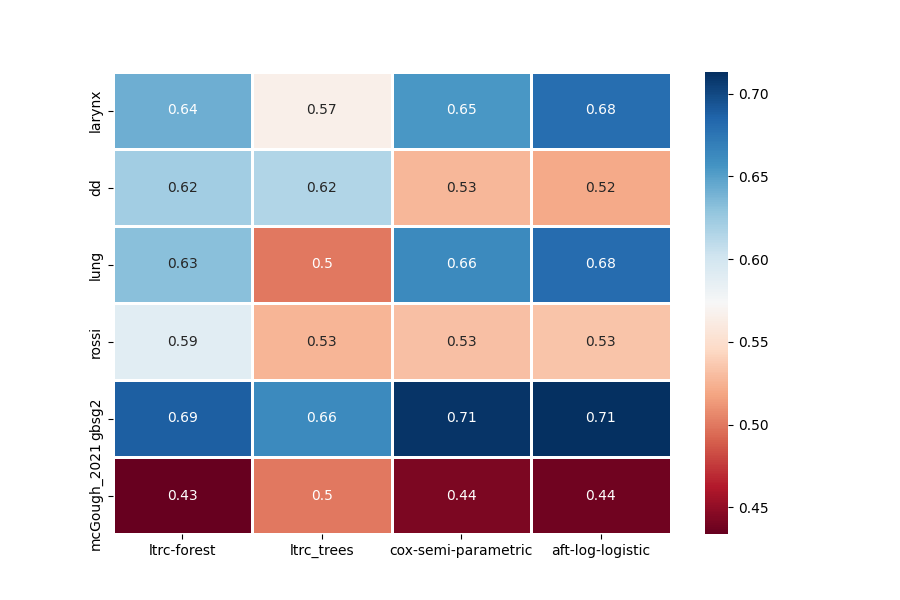
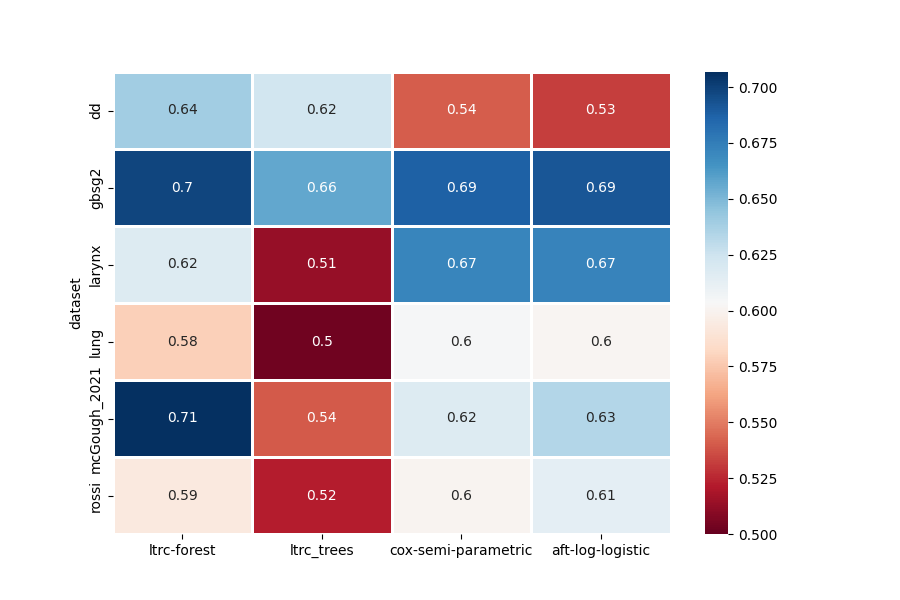
Maj benchmark

diff --git a/benchmark/synthetic.py b/benchmark/synthetic.py
@@ -2,14 +2,17 @@ import numpy as np
 import pandas as pd
 from scipy import stats
 
-n = 20000
-p = 3
+n = 400
+p = 30
 beta = np.random.uniform(size=p).reshape(-1, 1)
-beta = np.linspace(0, 1, num=p)*10
-alpha = 1
+beta = np.linspace(0, 0.1, num=p)
+# beta[: (3 * p) // 4] = 0
+alpha = 1.79
+weibull = stats.weibull_min(alpha)
 
 
 # https://onlinelibrary.wiley.com/doi/full/10.1002/sim.9136
+
 
 def generating_data(n, p):
     pi_k = np.random.uniform(0.2, 0.8, size=p)
@@ -19,49 +22,59 @@ def generating_data(n, p):
     d = s.diagonal()
     sigma = s / (np.sqrt(d).reshape(-1, 1) * np.sqrt(d).reshape(1, -1))
     mg = stats.multivariate_normal(mu_k, sigma, allow_singular=True)
-    x_tilde = mg.rvs(size=n) > 0
+    x_tilde = mg.rvs(size=n)  # > 0
     return x_tilde
 
 
+def get_shape(X, alpha, beta):
+    return np.exp(alpha) * np.exp(np.dot(X**2, beta))
+
+
 def generate_time_of_event(X, alpha, beta):
-    m = np.exp(alpha) * np.exp(np.dot(X, beta))
-    m = m.ravel()
-    return (-np.log(np.random.uniform(size=len(X)))) ** (1 / alpha) * m
+    m = get_shape(X, alpha, beta)
+    return weibull.rvs(size=len(X)) / m
 
 
 def generate_time_censoring(X, alpha, beta):
-    m = np.mean(np.exp(alpha + np.dot(X, beta)).ravel())
-    return (-np.log(np.random.uniform(size=len(X)))) ** (1 / alpha) * m
+    m = np.median(get_shape(X, alpha, beta))
+    return weibull.rvs(size=len(X)) / m
 
 
-def generate_left_truncation(x, mu, sigma):
-    return np.random.lognormal(mu, sigma, size=len(x))
+def generate_left_truncation(X, alpha, beta):
+    m = np.median(get_shape(X, alpha, beta)).ravel()
+    return weibull.rvs(size=len(X)) / m / 8
 
 
 def density_function(X, t, alpha, beta):
     t = t.reshape(1, -1)
-    m = np.exp(alpha + np.dot(X, beta)).ravel().reshape(-1, 1)
+    m = np.exp(alpha + np.dot(X**2, beta)).ravel().reshape(-1, 1)
     return alpha * m * (t ** (alpha - 1)) * np.exp(-m * (t ** alpha))
 
 
 X = generating_data(10 * n, p)
 T = generate_time_of_event(X, alpha, beta)
 R = generate_time_censoring(X, alpha, beta)
-L = generate_left_truncation(X, np.max((R.mean() - R.std(), T.min())), 1.5)
+L = generate_left_truncation(X, alpha, beta)
 # L = 0 * np.ones(L.shape)
 Y = T <= R
-Y &= T > L
+print("Proportion of censored event", 1 - np.mean(Y))
 
-print(np.mean(Y))
-print(np.mean(T))
-
+print("Average duration", np.mean(T))
 R = np.where(Y, T, R)
-loc = (R - L) > 1e-3
 
+loc = (R - L) > 1e-6
+print("Average truncated subjects", 1 - np.mean(loc))
 X = pd.DataFrame(X, columns=[f"feature_{i}" for i in range(X.shape[1])]).loc[loc].iloc[:n]
+
 Y = pd.Series(Y, name="target").loc[loc].iloc[:n]
 L = pd.Series(L, name="left_truncation").loc[loc].iloc[:n]
 R = pd.Series(R, name="right_censoring").loc[loc].iloc[:n]
+
+
+def plot_corr_x():
+    import seaborn as sns
+    sns.heatmap(pd.DataFrame(X).corr(method="spearman"), vmin=-1, cmap="RdBu_r")
+
 
 if __name__ == '__main__':
     import matplotlib.pyplot as plot
@@ -71,8 +84,19 @@ if __name__ == '__main__':
     from lifelines.fitters import coxph_fitter, log_logistic_aft_fitter
     from sklearn.model_selection import train_test_split
 
+    fig, ax = plot.subplots()
+    m = get_shape(X, alpha, beta)
+    s = np.linspace(1e-6, 1, num=1000)
+    for i in range(5):
+        w = weibull.pdf(s * m[i]) * m[i]
+        plot.plot(s, w, label=m[i])
+        y = np.argmax(abs(T[i] - s))
+        plot.scatter([T[i]], weibull.pdf(T[i] * m[i]) * m[i])
+    plot.legend()
+
     t = np.linspace(min(R), max(R), num=200)
     f_xt = density_function(X, t, alpha, beta)
+    plot.figure()
     plot.pcolormesh(f_xt)
     models = {
         "ltrc-forest": RandomForestLTRCFitter(
@@ -81,11 +105,11 @@ if __name__ == '__main__':
             max_samples=0.8),
         "ltrc_trees": LTRCTreesFitter(),
         "cox-semi-parametric": coxph_fitter.SemiParametricPHFitter(),
-        "aft-log-logistic": log_logistic_aft_fitter.LogLogisticAFTFitter(),
+        "aft-log-logistic": log_logistic_aft_fitter.LogLogisticAFTFitter(penalizer=0.01),
     }
     data = pd.concat((X, Y, L,
                       R), axis=1).astype(float)
-
+    plot.figure()
     sns.heatmap(
         pd.concat((data.iloc[:, -12:],
                    pd.Series(T, name='time')), axis=1).corr(method="spearman"), vmin=-1,
@@ -94,6 +118,8 @@ if __name__ == '__main__':
     y = data[["left_truncation", "right_censoring", "target"]]
     X = data.drop(columns=y.columns.tolist())
     X = X.select_dtypes(include=np.number)
+    data.loc[:, "target"] = data["target"].values.astype(bool)
+
     x_train, x_test, y_train, y_test = train_test_split(
         X, y, train_size=0.6)
     for i, key in enumerate(models.keys()):
@@ -105,9 +131,10 @@ if __name__ == '__main__':
         )
         test = 1 - models[key].predict_cumulative_hazard(
             x_test).astype(float).T
+        test.columns = np.array(test.columns.astype(float))
         test = test.dropna()
         c_index = concordance_index(
-            test, death=y_test.loc[test.index].iloc[:, 2],
+            test, death=y_test.loc[test.index].iloc[:, 2].astype(bool),
             censoring_time=y_test.loc[test.index].iloc[:, 1])
         print(models[key])
         print(c_index.mean())

diff --git a/benchmark/benchmark.py b/benchmark/benchmark.py
@@ -8,10 +8,10 @@ from lifelines.fitters import coxph_fitter, log_logistic_aft_fitter
 from lifelines.plotting import plot_lifetimes
 from sklearn.model_selection import train_test_split
 
+from benchmark import synthetic
 from survival_trees import LTRCTrees, RandomForestLTRCFitter, RandomForestLTRC, LTRCTreesFitter
 from survival_trees import plotting
 from survival_trees.metric import concordance_index, time_dependent_roc
-from benchmark import synthetic
 
 
 def load_datasets():
@@ -53,7 +53,7 @@ def load_datasets():
     # ==========================================================================
     data = pd.concat((synthetic.X.astype(int), synthetic.Y, synthetic.L,
                       synthetic.R), axis=1)
-    y = data[["left_truncation", "right_censoring",  "target"]]
+    y = data[["left_truncation", "right_censoring", "target"]]
     X = data.drop(columns=y.columns.tolist())
     X = X.select_dtypes(include=np.number)
     datasets_dict["mcGough_2021"] = X, y
@@ -61,7 +61,7 @@ def load_datasets():
     return datasets_dict
 
 
-def benchmark():
+def benchmark(n_exp=2):
     all_datasets = load_datasets()
     models = {
         "ltrc-forest": RandomForestLTRCFitter(
@@ -70,35 +70,44 @@ def benchmark():
             max_samples=0.8),
         "ltrc_trees": LTRCTreesFitter(),
         "cox-semi-parametric": coxph_fitter.SemiParametricPHFitter(),
-        "aft-log-logistic": log_logistic_aft_fitter.LogLogisticAFTFitter(),
+        "aft-log-logistic": log_logistic_aft_fitter.LogLogisticAFTFitter(penalizer=0.1),
     }
-    results = pd.DataFrame(index=all_datasets.keys(), columns=models.keys())
+    results = {}
+    for j in range(n_exp):
+        results[j] = pd.DataFrame(index=all_datasets.keys(), columns=models.keys())
+        for k, (X, y) in all_datasets.items():
+            x_train, x_test, y_train, y_test = train_test_split(
+                X, y, train_size=0.6)
+            for i, key in enumerate(models.keys()):
 
-    for k, (X, y) in all_datasets.items():
-        x_train, x_test, y_train, y_test = train_test_split(
-            X, y, train_size=0.6)
-        for i, key in enumerate(models.keys()):
-            try:
-                models[key].fit(
-                    pd.concat((x_train, y_train), axis=1).dropna(),
-                    entry_col=y_train.columns[0],
-                    duration_col=y_train.columns[1],
-                    event_col=y_train.columns[2]
-                )
-                test = 1 - models[key].predict_cumulative_hazard(
-                    x_test).astype(float).T
-                test = test.dropna()
-                c_index = concordance_index(
-                    test, death=y_test.loc[test.index].iloc[:, 2],
-                    censoring_time=y_test.loc[test.index].iloc[:, 1])
-                results.loc[k, key] = np.nanmean(c_index)
-            except Exception:
-                pass
+                try:
+                    models[key].fit(
+                        pd.concat((x_train, y_train), axis=1).dropna(),
+                        entry_col=y_train.columns[0],
+                        duration_col=y_train.columns[1],
+                        event_col=y_train.columns[2]
+                    )
+                    test = 1 - models[key].predict_cumulative_hazard(
+                        x_test).astype(float).T
+                    test = test.dropna()
+                    c_index = concordance_index(
+                        test, death=y_test.loc[test.index].iloc[:, 2],
+                        censoring_time=y_test.loc[test.index].iloc[:, 1])
+                    results[j].loc[k, key] = np.nanmean(c_index)
+                except Exception:
+                    pass
+    all_res = pd.DataFrame()
+    for res in results.keys():
+        results[res]["num_expe"] = res
+        all_res = pd.concat((results[res].astype(float), all_res), axis=0)
+    all_res.index.name = "dataset"
+    mean_ = all_res.reset_index().groupby("dataset").mean().drop(columns=["num_expe"])
+    std_ = all_res.reset_index().groupby("dataset").std().drop(columns=["num_expe"])
 
-    print(results)
     f, ax = plot.subplots(figsize=(9, 6))
-    sns.heatmap(results.astype(float), annot=True, linewidths=2, ax=ax,
-                # vmin=0.5, vmax=0.9,
+    sns.heatmap(mean_.astype(float), annot=True, linewidths=2, ax=ax,
+                vmin=0.5,
+                # vmax=0.9,
                 cmap="RdBu")
     plot.savefig("./public/benchmark.png")
 
@@ -160,4 +169,4 @@ def test_metrics():
 
 
 if __name__ == '__main__':
-    benchmark()
+    benchmark(n_exp=10)
